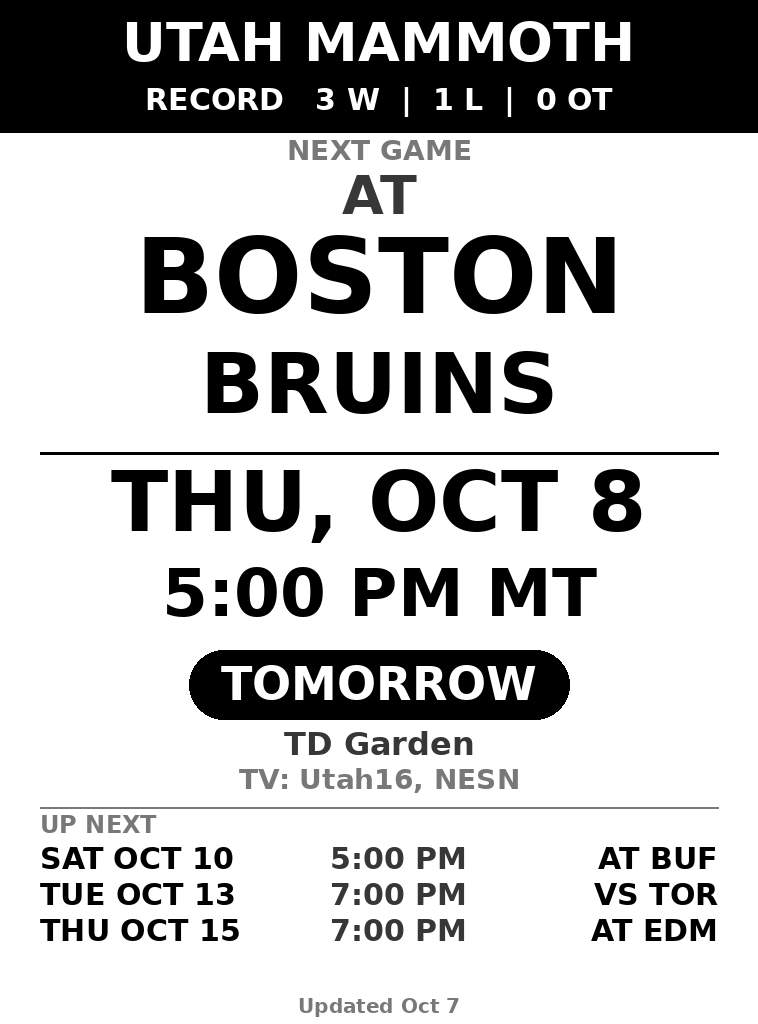
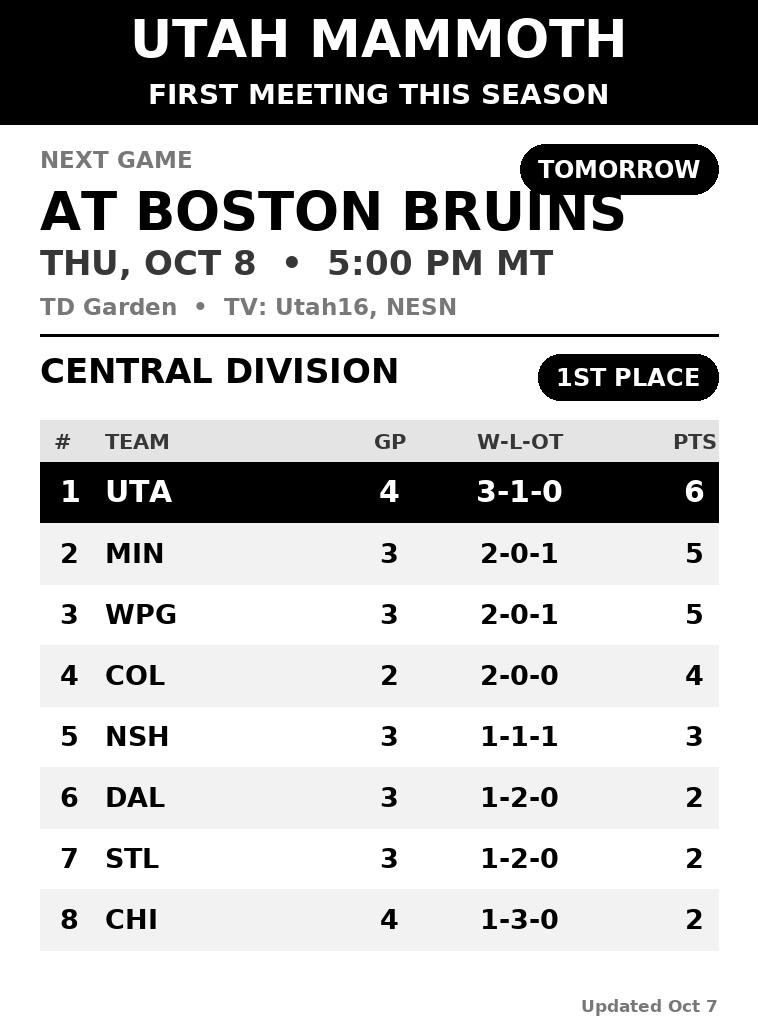
Add standings and season-series dashboard
Show division standings, opponent season series, and a TODAY/TOMORROW/day-count callout.

diff --git a/mammoth_screen.py b/mammoth_screen.py
@@ -25,12 +25,13 @@ from PIL import Image, ImageDraw, ImageFont
 TEAM = "UTA"
 LOCAL_TZ = ZoneInfo("America/Denver")
 SCHEDULE_URL = f"https://api-web.nhle.com/v1/club-schedule-season/{TEAM}/now"
+STANDINGS_URL = "https://api-web.nhle.com/v1/standings/now"
 UPCOMING_STATES = {"FUT", "PRE", "LIVE", "CRIT"}
 LIVE_STATES = {"LIVE", "CRIT"}
 COMPLETED_STATES = {"OFF", "FINAL"}
 REGULAR_SEASON_GAME_TYPE = 2
 
-BLACK, DARK, MID, WHITE = 0, 55, 120, 255
+BLACK, DARK, MID, LIGHT, WHITE = 0, 55, 120, 228, 255
 
 FONT_CANDIDATES = [
     "/usr/share/fonts/truetype/dejavu/DejaVuSans-Bold.ttf"
@@ -53,18 +54,24 @@ def load_font(size):
 
 # ---------- data ----------
 
-def load_games(json_path):
+def load_json(url, json_path):
     if json_path:
         with open(json_path, encoding="utf-8") as f:
-            data = json.load(f)
-    else:
-        req = urllib.request.Request(
-            SCHEDULE_URL
-            , headers={"User-Agent": "mammoth-kindle-screen/1.0"}
-        )
-        with urllib.request.urlopen(req, timeout=30) as resp:
-            data = json.load(resp)
-    return data["games"]
+            return json.load(f)
+    req = urllib.request.Request(
+        url
+        , headers={"User-Agent": "mammoth-kindle-screen/1.0"}
+    )
+    with urllib.request.urlopen(req, timeout=30) as resp:
+        return json.load(resp)
+
+
+def load_games(json_path):
+    return load_json(SCHEDULE_URL, json_path)["games"]
+
+
+def load_standings(json_path):
+    return load_json(STANDINGS_URL, json_path)["standings"]
 
 
 def start_utc(game):
@@ -90,9 +97,9 @@ def upcoming_games(games, now):
     return out
 
 
-def season_record(games, now):
-    """Return Utah's regular-season record as (wins, losses, OT losses)."""
-    wins = losses = ot_losses = 0
+def season_series(games, opponent_abbrev, now):
+    """Return completed regular-season wins for Utah and its next opponent."""
+    utah_wins = opponent_wins = 0
     for game in games:
         if game.get("gameType") != REGULAR_SEASON_GAME_TYPE:
             continue
@@ -103,17 +110,35 @@ def season_record(games, now):
 
         away = game.get("awayTeam", {})
         home = game.get("homeTeam", {})
-        utah, opponent = (away, home) if away.get("abbrev") == TEAM else (home, away)
+        if away.get("abbrev") == TEAM:
+            utah, opponent = away, home
+        elif home.get("abbrev") == TEAM:
+            utah, opponent = home, away
+        else:
+            continue
+        if opponent.get("abbrev") != opponent_abbrev:
+            continue
         if "score" not in utah or "score" not in opponent:
             continue
 
         if utah["score"] > opponent["score"]:
-            wins += 1
-        elif game.get("gameOutcome", {}).get("lastPeriodType") in {"OT", "SO"}:
-            ot_losses += 1
+            utah_wins += 1
         else:
-            losses += 1
-    return wins, losses, ot_losses
+            opponent_wins += 1
+    return utah_wins, opponent_wins
+
+
+def utah_division(standings):
+    utah = next(
+        (row for row in standings if row.get("teamAbbrev", {}).get("default") == TEAM)
+        , None
+    )
+    if not utah:
+        return "DIVISION", []
+    division = utah.get("divisionName", "Division")
+    rows = [row for row in standings if row.get("divisionName") == division]
+    rows.sort(key=lambda row: row.get("divisionSequence", 99))
+    return division, rows
 
 
 def side_and_opponent(game):
@@ -139,10 +164,6 @@ def fmt_date(dt):
     return f"{dt:%a}, {dt:%b} {dt.day}".upper()
 
 
-def fmt_short_date(dt):
-    return f"{dt:%a} {dt:%b} {dt.day}".upper()
-
-
 def fmt_time(dt):
     return f"{dt.hour % 12 or 12}:{dt.minute:02d} {'AM' if dt.hour < 12 else 'PM'}"
 
@@ -154,6 +175,14 @@ def day_phrase(start_local, now_local):
     if delta == 1:
         return "TOMORROW"
     return f"IN {delta} DAYS"
+
+
+def ordinal(number):
+    if 10 <= number % 100 <= 20:
+        suffix = "TH"
+    else:
+        suffix = {1: "ST", 2: "ND", 3: "RD"}.get(number % 10, "TH")
+    return f"{number}{suffix}"
 
 
 # ---------- drawing ----------
@@ -170,7 +199,7 @@ def centered(draw, width, y, text, size, fill, max_w):
     return y + int(font.size * 1.12)
 
 
-def render(games, record, now_utc, size):
+def render(upcoming, all_games, standings, now_utc, size):
     width, height = size
     pad = 40
     inner = width - 2 * pad
@@ -178,82 +207,111 @@ def render(games, record, now_utc, size):
     d = ImageDraw.Draw(img)
     now_local = now_utc.astimezone(LOCAL_TZ)
 
-    # Header band: team identity plus the conventional NHL W-L-OT record.
-    d.rectangle((0, 0, width, 132), fill=BLACK)
-    header_font = fit_font(d, "UTAH MAMMOTH", inner, 54)
-    d.text((width / 2, 42), "UTAH MAMMOTH", font=header_font, fill=WHITE, anchor="mm")
-    wins, losses, ot_losses = record
-    record_text = f"RECORD   {wins} W  |  {losses} L  |  {ot_losses} OT"
-    record_font = fit_font(d, record_text, inner, 30)
-    d.text((width / 2, 100), record_text, font=record_font, fill=WHITE, anchor="mm")
+    game = upcoming[0] if upcoming else None
+    if game:
+        prefix, opp = side_and_opponent(game)
+        opponent_abbrev = opp["abbrev"]
+        utah_wins, opponent_wins = season_series(all_games, opponent_abbrev, now_utc)
+        if utah_wins + opponent_wins:
+            matchup = f"SEASON SERIES   UTA {utah_wins} - {opponent_wins} {opponent_abbrev}"
+        else:
+            matchup = "FIRST MEETING THIS SEASON"
+    else:
+        matchup = "REGULAR SEASON"
+
+    # The division table already contains Utah's record, so the banner carries
+    # the more opponent-specific season-series context instead.
+    d.rectangle((0, 0, width, 124), fill=BLACK)
+    header_font = fit_font(d, "UTAH MAMMOTH", inner, 52)
+    d.text((width / 2, 39), "UTAH MAMMOTH", font=header_font, fill=WHITE, anchor="mm")
+    matchup_font = fit_font(d, matchup, inner, 28)
+    d.text((width / 2, 94), matchup, font=matchup_font, fill=WHITE, anchor="mm")
 
     footer = f"Updated {now_local:%b} {now_local.day}"
 
-    if not games:
-        y = centered(d, width, 380, "NO UPCOMING", 76, BLACK, inner)
-        centered(d, width, y, "GAMES FOUND", 76, BLACK, inner)
-        d.text((width / 2, height - 30), footer, font=load_font(20), fill=MID, anchor="mm")
-        return img
+    if game:
+        start_local = start_utc(game).astimezone(LOCAL_TZ)
+        live = game.get("gameState") in LIVE_STATES
+        chip_text = "LIVE NOW" if live else day_phrase(start_local, now_local)
 
-    game, rest = games[0], games[1:4]
-    start_local = start_utc(game).astimezone(LOCAL_TZ)
-    prefix, opp = side_and_opponent(game)
-    live = game.get("gameState") in LIVE_STATES
+        d.text((pad, 151), "NEXT GAME", font=load_font(23), fill=MID, anchor="lt")
+        chip_font = fit_font(d, chip_text, 210, 24)
+        chip_w = d.textlength(chip_text, font=chip_font) + 36
+        chip_x = width - pad - chip_w
+        d.rounded_rectangle((chip_x, 144, width - pad, 194), radius=25, fill=BLACK)
+        d.text((chip_x + chip_w / 2, 169), chip_text, font=chip_font, fill=WHITE, anchor="mm")
 
-    y = 140
-    y = centered(d, width, y, "NEXT GAME", 28, MID, inner)
-    y = centered(d, width, y + 4, prefix, 54, DARK, inner)
-    y = centered(d, width, y, opp["placeName"]["default"].upper(), 104, BLACK, inner)
-    y = centered(d, width, y, opp["commonName"]["default"].upper(), 84, BLACK, inner)
+        opponent_name = (
+            f"{prefix} {opp['placeName']['default']} {opp['commonName']['default']}".upper()
+        )
+        opponent_font = fit_font(d, opponent_name, inner, 53)
+        d.text((pad, 190), opponent_name, font=opponent_font, fill=BLACK, anchor="lt")
+        date_time = f"{fmt_date(start_local)}  •  {fmt_time(start_local)} MT"
+        date_font = fit_font(d, date_time, inner, 34)
+        d.text((pad, 250), date_time, font=date_font, fill=DARK, anchor="lt")
 
-    y += 8
-    d.line((pad, y, width - pad, y), fill=BLACK, width=3)
-    y += 16
+        details = []
+        venue = game.get("venue", {}).get("default", "")
+        if venue:
+            details.append(venue)
+        tv = tv_line(game)
+        if tv:
+            details.append(f"TV: {tv}")
+        if details:
+            details_text = "  •  ".join(details)
+            details_font = fit_font(d, details_text, inner, 23)
+            d.text((pad, 298), details_text, font=details_font, fill=MID, anchor="lt")
+    else:
+        d.text((pad, 165), "NO UPCOMING GAMES FOUND", font=load_font(34), fill=BLACK, anchor="lt")
 
-    y = centered(d, width, y, fmt_date(start_local), 84, BLACK, inner)
-    y = centered(d, width, y + 4, f"{fmt_time(start_local)} MT", 66, BLACK, inner)
+    d.line((pad, 335, width - pad, 335), fill=BLACK, width=3)
 
-    # countdown chip
-    chip_text = "LIVE NOW" if live else day_phrase(start_local, now_local)
-    chip_font = fit_font(d, chip_text, inner - 60, 46)
-    text_w = d.textlength(chip_text, font=chip_font)
-    chip_h = int(chip_font.size * 1.5)
-    x0 = (width - text_w) / 2 - 32
-    y += 10
-    d.rounded_rectangle((x0, y, width - x0, y + chip_h), radius=chip_h // 2, fill=BLACK)
-    d.text((width / 2, y + chip_h / 2), chip_text, font=chip_font, fill=WHITE, anchor="mm")
-    y += chip_h + 12
+    division_name, division_rows = utah_division(standings)
+    d.text((pad, 358), f"{division_name.upper()} DIVISION", font=load_font(34), fill=BLACK, anchor="lt")
+    utah_row = next(
+        (row for row in division_rows if row.get("teamAbbrev", {}).get("default") == TEAM)
+        , None
+    )
+    if utah_row:
+        place_text = f"{ordinal(utah_row.get('divisionSequence', 0))} PLACE"
+        place_font = load_font(24)
+        place_w = d.textlength(place_text, font=place_font) + 36
+        d.rounded_rectangle(
+            (width - pad - place_w, 354, width - pad, 400), radius=22, fill=BLACK
+        )
+        d.text(
+            (width - pad - place_w / 2, 377), place_text
+            , font=place_font, fill=WHITE, anchor="mm"
+        )
 
-    venue = game.get("venue", {}).get("default", "")
-    if venue:
-        y = centered(d, width, y, venue, 32, DARK, inner)
-    tv = tv_line(game)
-    if tv:
-        y = centered(d, width, y + 2, f"TV: {tv}", 28, MID, inner)
+    y = 420
+    d.rectangle((pad, y, width - pad, y + 42), fill=LIGHT)
+    columns = [(54, "#", "lm"), (105, "TEAM", "lm"), (390, "GP", "mm"),
+               (520, "W-L-OT", "mm"), (695, "PTS", "mm")]
+    for x, label, anchor in columns:
+        d.text((x, y + 21), label, font=load_font(21), fill=DARK, anchor=anchor)
 
-    # up next list
-    if rest:
-        y += 8
-        d.line((pad, y, width - pad, y), fill=MID, width=2)
-        y += 8
-        d.text((pad, y), "UP NEXT", font=load_font(24), fill=MID, anchor="lt")
-        y += 32
-        small = load_font(30)
-        for g in rest:
-            g_local = start_utc(g).astimezone(LOCAL_TZ)
-            g_prefix, g_opp = side_and_opponent(g)
-            d.text((pad, y), fmt_short_date(g_local), font=small, fill=BLACK, anchor="lt")
-            d.text((330, y), fmt_time(g_local), font=small, fill=DARK, anchor="lt")
-            d.text(
-                (width - pad, y)
-                , f"{g_prefix} {g_opp['abbrev']}"
-                , font=small
-                , fill=BLACK
-                , anchor="rt"
-            )
-            y += 36
+    y += 42
+    row_h = 61
+    for row in division_rows[:8]:
+        abbrev = row.get("teamAbbrev", {}).get("default", "")
+        rank = row.get("divisionSequence", 0)
+        selected = abbrev == TEAM
+        if selected:
+            d.rectangle((pad, y, width - pad, y + row_h), fill=BLACK)
+        elif rank % 2 == 0:
+            d.rectangle((pad, y, width - pad, y + row_h), fill=242)
+        color = WHITE if selected else BLACK
+        font = load_font(30 if selected else 27)
+        record_text = f"{row.get('wins', 0)}-{row.get('losses', 0)}-{row.get('otLosses', 0)}"
+        values = [(60, str(rank), "lm"), (105, abbrev, "lm"),
+                  (390, str(row.get("gamesPlayed", 0)), "mm"),
+                  (520, record_text, "mm"), (695, str(row.get("points", 0)), "mm")]
+        for x, value, anchor in values:
+            d.text((x, y + row_h / 2), value, font=font, fill=color, anchor=anchor)
+        y += row_h
 
-    d.text((width / 2, height - 18), footer, font=load_font(20), fill=MID, anchor="mm")
+    d.text((width - pad, height - 18), footer, font=load_font(17), fill=MID, anchor="rm")
     return img
 
 
@@ -261,6 +319,9 @@ def main():
     ap = argparse.ArgumentParser(description=__doc__.split("\n")[0])
     ap.add_argument("--out", default="mammoth.png")
     ap.add_argument("--json", help="read schedule from a local file instead of the NHL API")
+    ap.add_argument(
+        "--standings-json", help="read standings from a local file instead of the NHL API"
+    )
     ap.add_argument("--now", help="override the clock, e.g. 2026-10-06T16:35:00Z (for testing)")
     ap.add_argument("--size", default="758x1024", help="WIDTHxHEIGHT of the output image")
     args = ap.parse_args()
@@ -275,19 +336,17 @@ def main():
 
     try:
         games = load_games(args.json)
+        standings = load_standings(args.standings_json)
     except Exception as exc:  # leave any existing image untouched on failure
         print(f"Could not load schedule: {exc}", file=sys.stderr)
         return 1
 
-    record = season_record(games, now)
     upcoming = upcoming_games(games, now)
-    img = render(upcoming, record, now, (width, height))
+    img = render(upcoming, games, standings, now, (width, height))
     img.save(args.out, format="PNG")
     nxt = upcoming[0]["startTimeUTC"] if upcoming else "none"
     print(
-        f"Wrote {args.out} ({width}x{height}); "
-        f"record: {record[0]}-{record[1]}-{record[2]}; "
-        f"next game start (UTC): {nxt}"
+        f"Wrote {args.out} ({width}x{height}); next game start (UTC): {nxt}"
     )
     return 0
 
